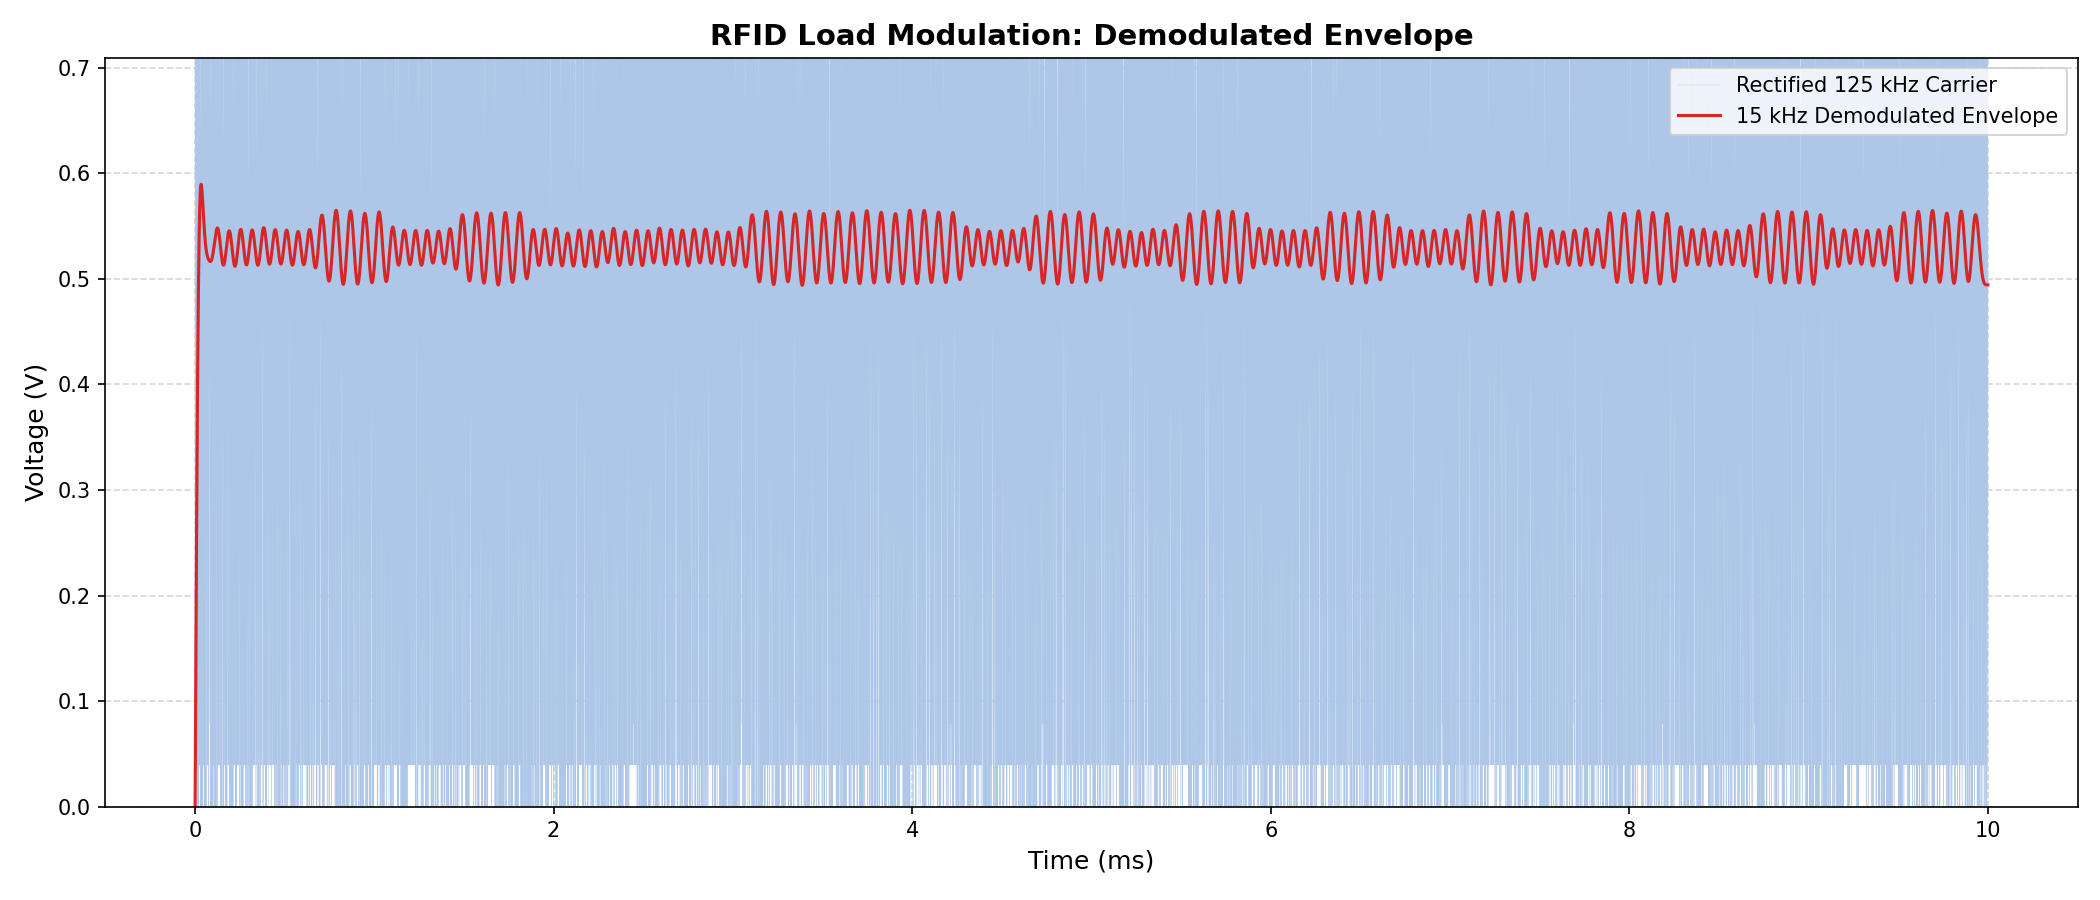
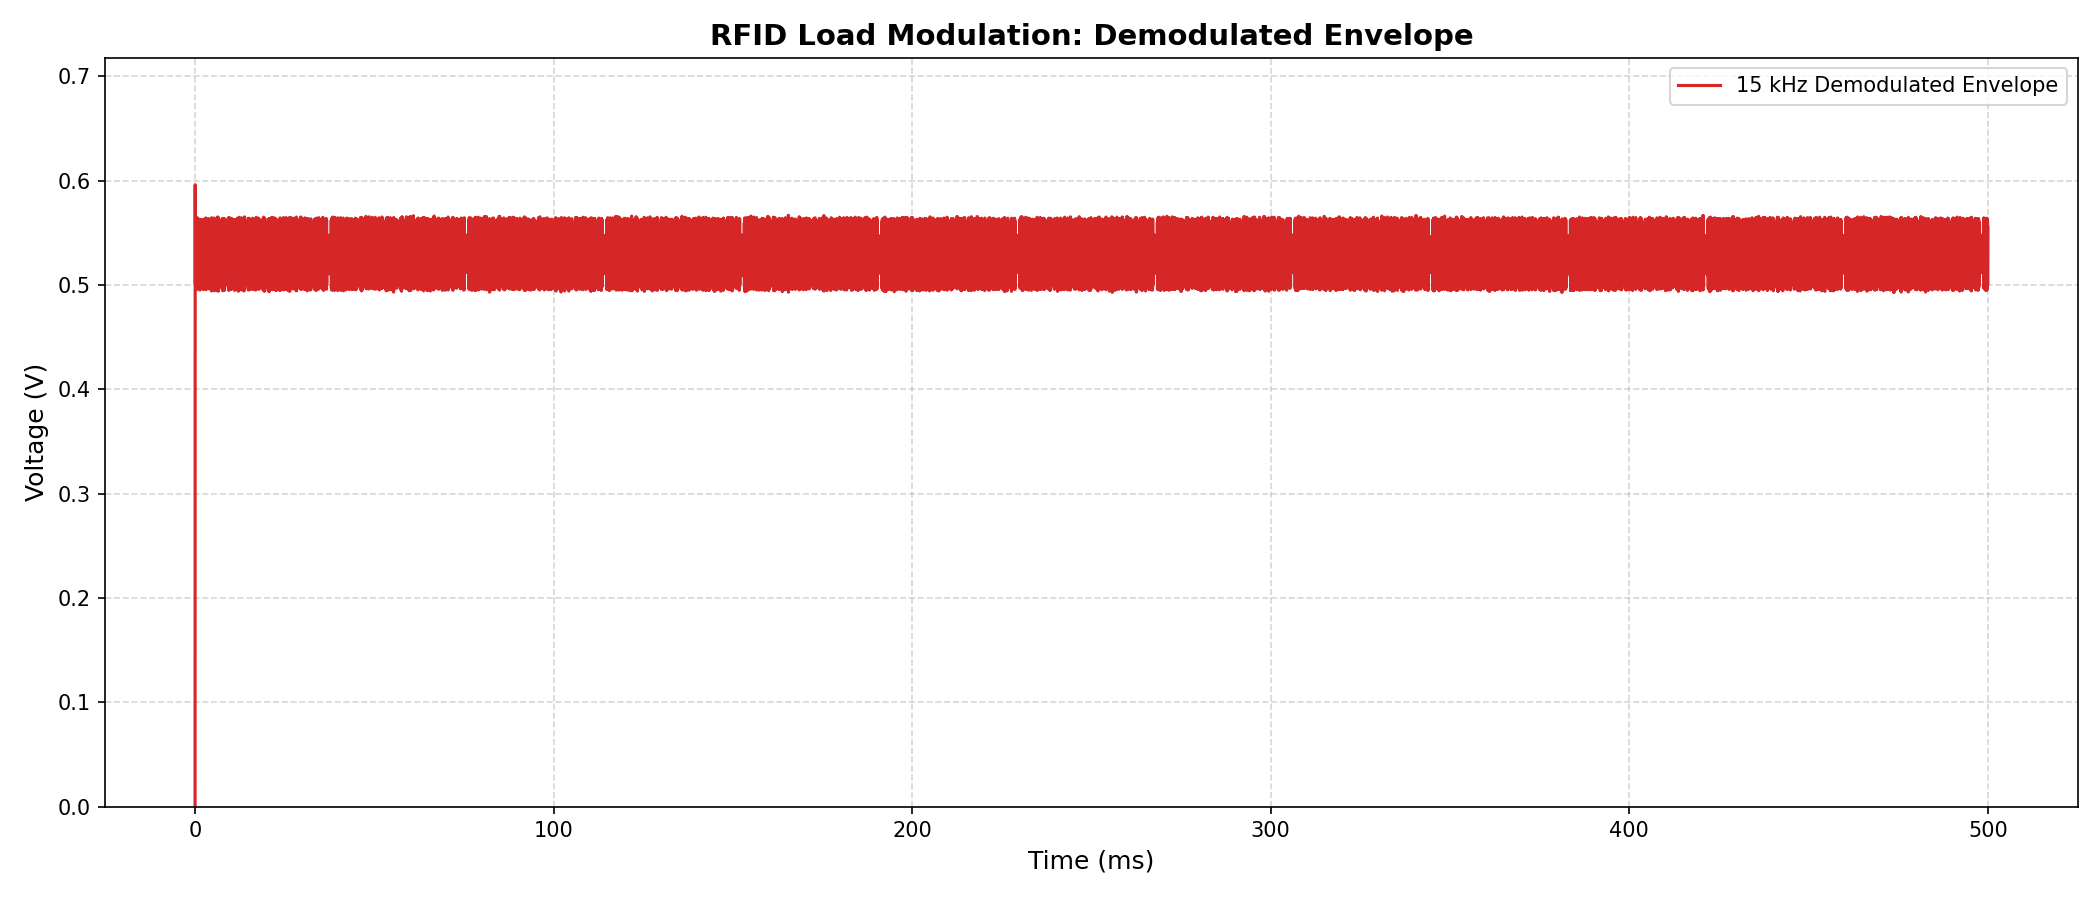
Final envelope

diff --git a/rfid_decoder/rfid_envelope_detector.py b/rfid_decoder/rfid_envelope_detector.py
@@ -87,9 +87,12 @@ def apply_envelope_detection(time_ms, voltages, cutoff_hz=15000.0):
 
 def plot_and_save_results(time_ms, rectified_volts, envelope, output_folder="results"):
     """
-    Plots the rectified high-frequency carrier and the demodulated low-pass envelope,
+    Plots the demodulated low-pass envelope,
     saving the high-resolution output visualization to the results folder.
     """
+    # Increase chunksize to prevent OverflowError when rendering large datasets
+    plt.rcParams['agg.path.chunksize'] = 10000
+
     # Ensure target output directory exists
     if not os.path.exists(output_folder):
         os.makedirs(output_folder)
@@ -98,10 +101,7 @@ def plot_and_save_results(time_ms, rectified_volts, envelope, output_folder="res
     print("Generating and saving the graph...")
     plt.figure(figsize=(14, 6))
 
-    # Plot the rectified carrier in the background (light blue, very thin)
-    plt.plot(time_ms, rectified_volts, color="#aec7e8", label="Rectified 125 kHz Carrier", linewidth=0.2)
-    
-    # Plot the smoothed envelope on top (bold red, thicker line)
+    # Plot the smoothed envelope (bold red, thicker line)
     plt.plot(time_ms, envelope, color="#d62728", label="15 kHz Demodulated Envelope", linewidth=1.5)
 
     # Style plot to resemble an oscilloscope output

diff --git a/rfid_decoder/rfid_simple_capture.py b/rfid_decoder/rfid_simple_capture.py
@@ -7,7 +7,7 @@ from picosdk.functions import assert_pico_ok
 from picosdk.ps2000a import ps2000a as ps
 
 # --- USER CONFIGURATION ---
-SAMPLE_TIME_MS = 10.0  # Duration to sample in milliseconds
+SAMPLE_TIME_MS = 500.0  # Duration to sample in milliseconds
 
 def run_simple_capture():
     print("="*80)